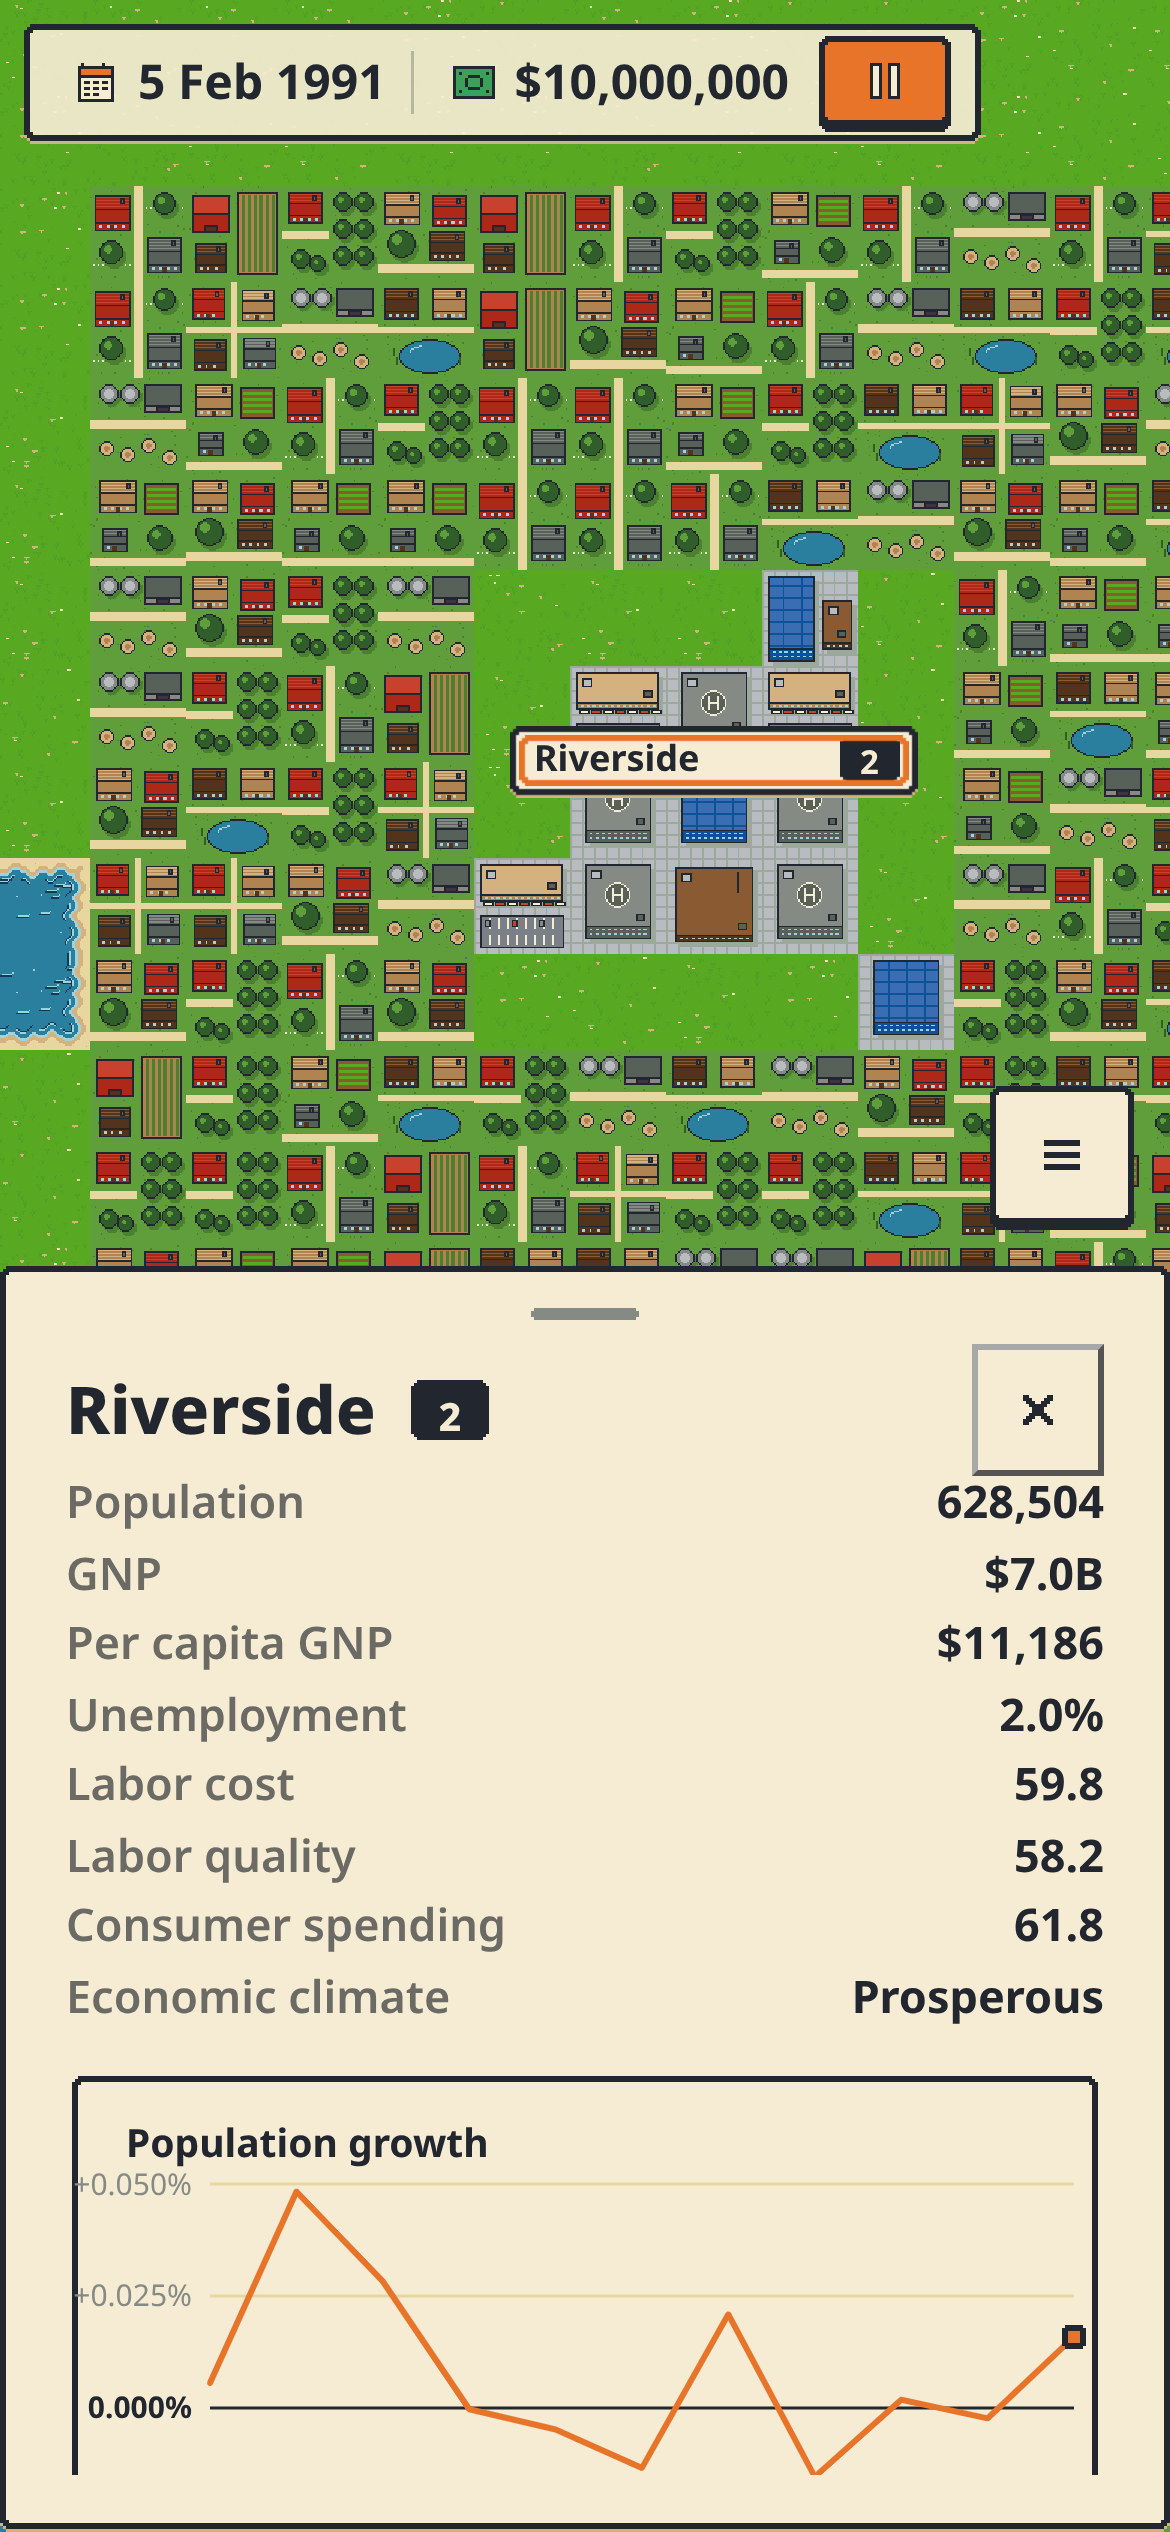
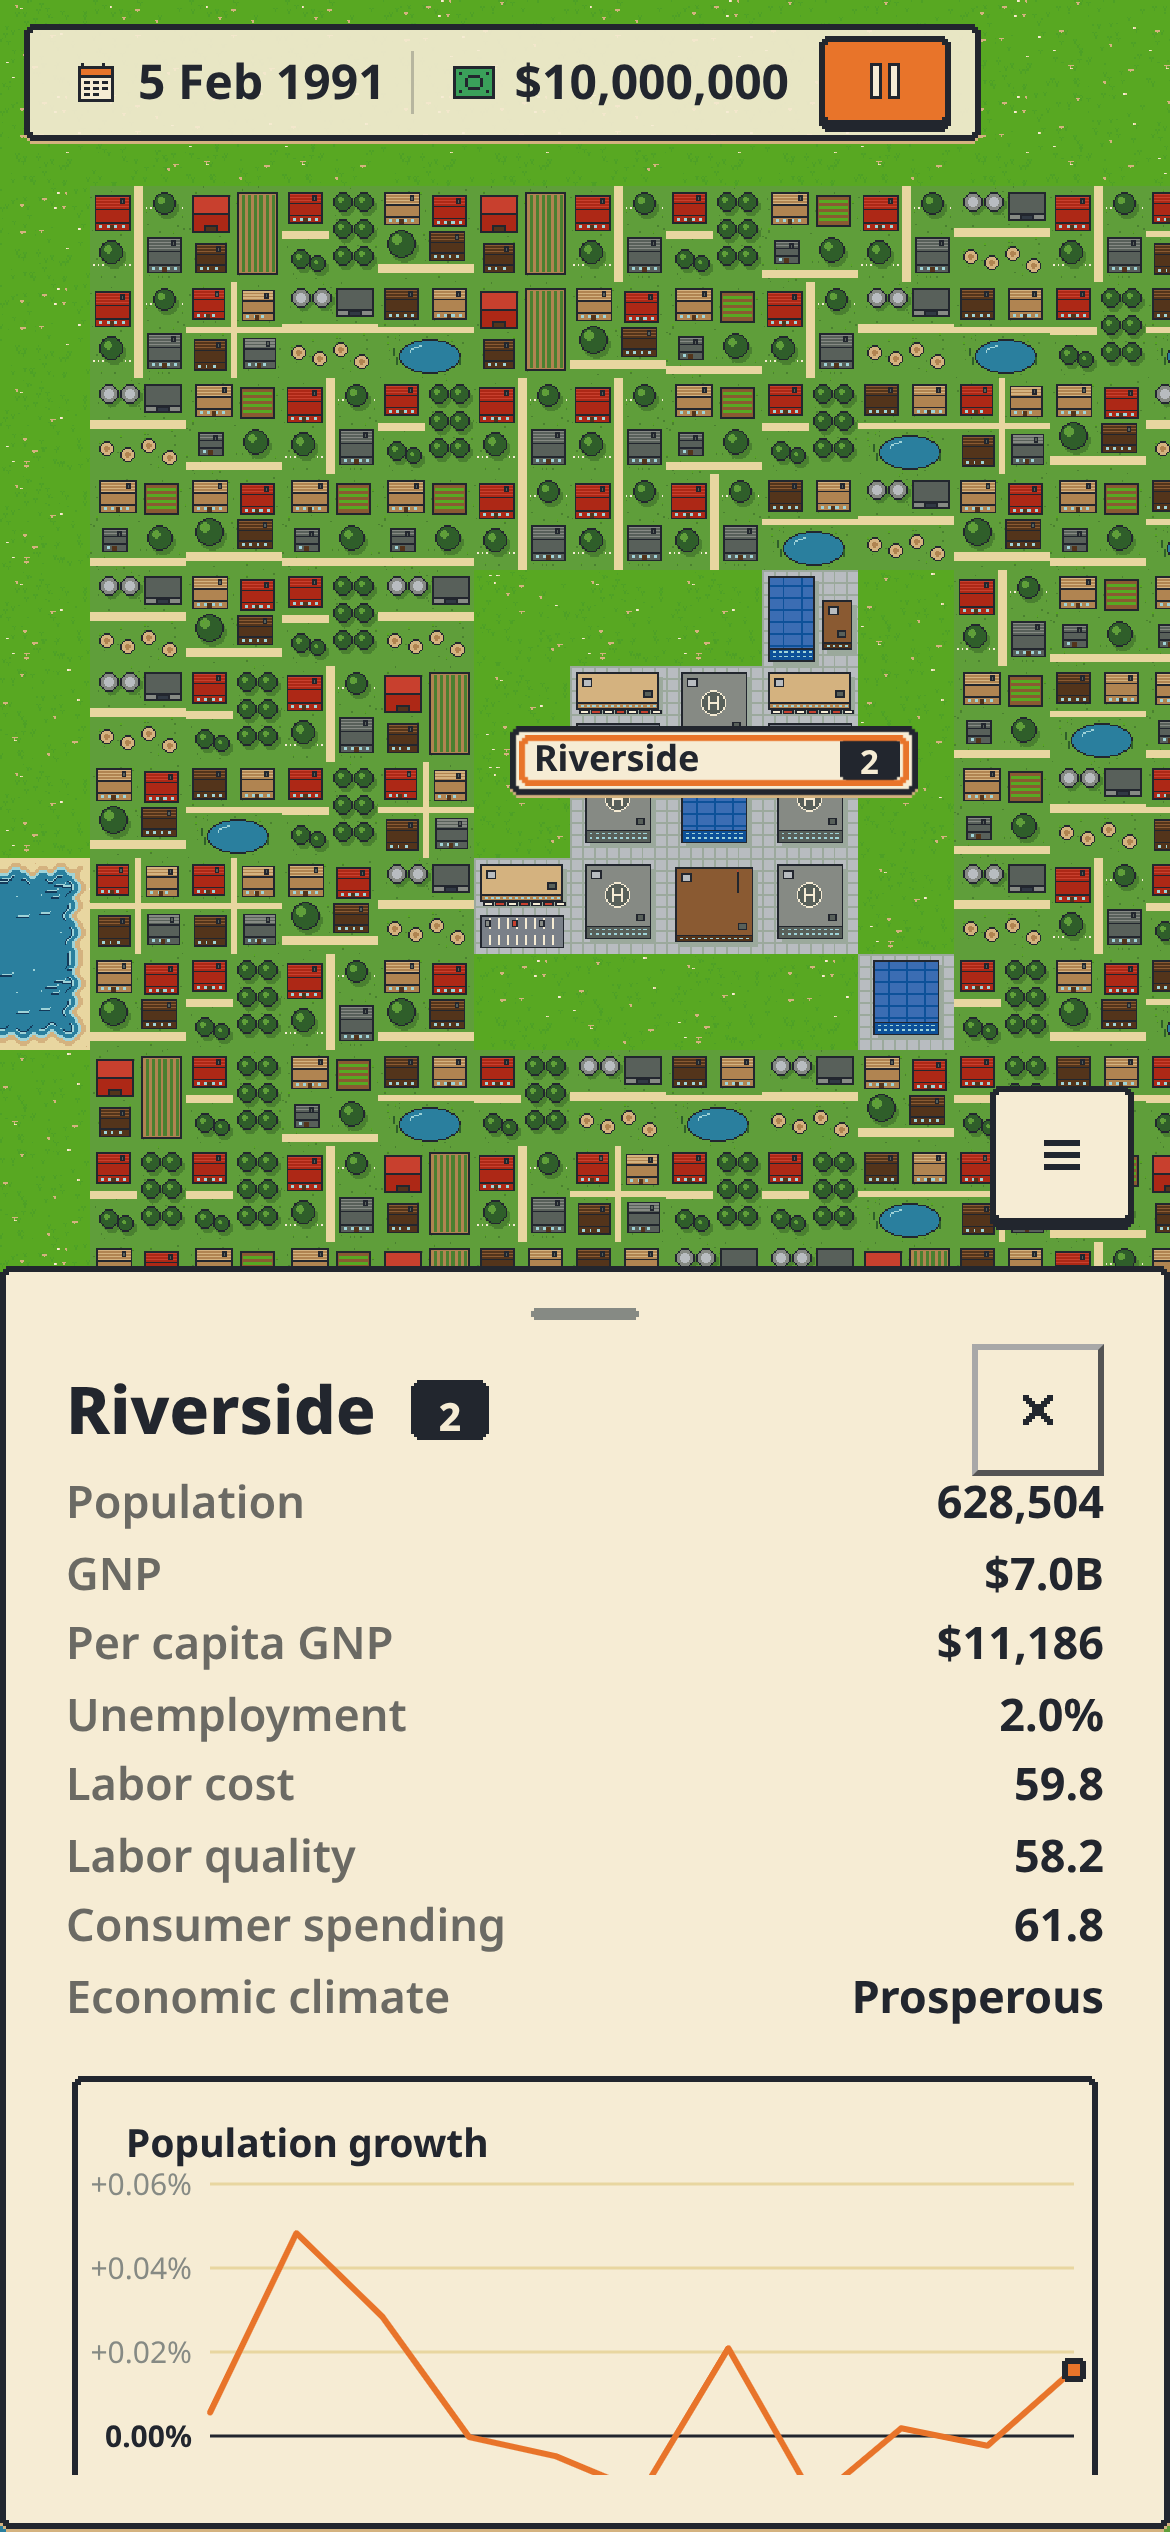
Charts: 1-2-5 grid steps with one extra line when needed (Artist, #352)

Changed region(s): [[0.0923, 0.8424, 0.9231, 0.9984]]

diff --git a/client/src/ui/chart.ts b/client/src/ui/chart.ts
@@ -45,7 +45,8 @@ export const crossesZero = (min: number, max: number) => min < 0 && max > 0;
 /** Tip colour: green for 0 and up, red below 0. */
 export const tipColour = (v: number) => (v >= 0 ? PALETTE.GREEN : PALETTE.RED);
 
-/** Axis range with exactly `lines` evenly spaced round ticks (1, 2, 2.5 or 5 times a power of ten)
+/** Axis range with `lines` (or one more) evenly spaced round ticks (1, 2 or 5 times a power of
+ * ten, per the Artist on #352, so labels step evenly)
  * covering every value. A flat series is widened to include 0. */
 export function axisRange(values: number[], lines = style.grid.lines): { min: number; max: number; ticks: number[] } {
   let lo = values.length ? Math.min(...values) : 0;
@@ -58,14 +59,16 @@ export function axisRange(values: number[], lines = style.grid.lines): { min: nu
   const intervals = Math.max(1, lines - 1);
   const raw = (hi - lo) / intervals;
   const mag = 10 ** Math.floor(Math.log10(raw));
-  for (const m of [1, 2, 2.5, 5, 10, 20]) {
-    const step = m * mag;
-    const start = Math.floor(lo / step + 1e-9) * step;
-    if (start + intervals * step >= hi - 1e-9 * step) {
-      const ticks = Array.from({ length: intervals + 1 }, (_, k) => +(start + k * step).toPrecision(12));
-      return { min: ticks[0], max: ticks[intervals], ticks };
+  // Without 2.5 a range can just miss a step; one extra grid line then beats doubling the step.
+  for (const m of [1, 2, 5, 10, 20])
+    for (const n of [intervals, intervals + 1]) {
+      const step = m * mag;
+      const start = Math.floor(lo / step + 1e-9) * step;
+      if (start + n * step >= hi - 1e-9 * step) {
+        const ticks = Array.from({ length: n + 1 }, (_, k) => +(start + k * step).toPrecision(12));
+        return { min: ticks[0], max: ticks[n], ticks };
+      }
     }
-  }
   throw new Error("unreachable");
 }
 

diff --git a/client/tests/towncard.test.ts b/client/tests/towncard.test.ts
@@ -1,4 +1,5 @@
 // @vitest-environment happy-dom
+import { axisRange } from "../src/ui/chart";
 import { describe, expect, it } from "vitest";
 import { CLIMATE_NAMES, TownJson, growthPct, growthTick, growthSeries, pct, townCard, townIndicators } from "../src/ui/towncard";
 
@@ -49,6 +50,12 @@ describe("town card", () => {
     const ticks = [-0.025, 0, 0.025, 0.05];
     expect(ticks.map((t) => growthTick(t, ticks))).toEqual(["\u22120.025%", "0.000%", "+0.025%", "+0.050%"]);
     expect([-2, -1, 0, 1].map((t, _, a) => growthTick(t, a))).toEqual(["\u22122.0%", "\u22121.0%", "0.0%", "+1.0%"]);
+  });
+
+  it("steps growth axes by 1, 2 or 5 times a power of ten", () => {
+    const pop = TOWN.pop_growth_pct as number[];
+    const { ticks } = axisRange(pop);
+    expect(ticks.map((t) => growthTick(t, ticks))).toEqual(["\u22120.02%", "0.00%", "+0.02%", "+0.04%", "+0.06%"]);
   });
 
   it("labels growth months back from the last complete month and skips nulls", () => {

diff --git a/client/tests/chart.test.ts b/client/tests/chart.test.ts
@@ -27,8 +27,9 @@ describe("axis", () => {
     expect(crossesZero(0, 2)).toBe(false);
     expect(crossesZero(1, 2)).toBe(false);
   });
-  it("picks four round ticks covering the values", () => {
-    expect(axisRange([-420e3, 1.2e6]).ticks).toEqual([-1e6, 0, 1e6, 2e6]);
+  it("picks four (or five) round 1-2-5 ticks covering the values", () => {
+    expect(axisRange([-420e3, 1.2e6]).ticks).toEqual([-5e5, 0, 5e5, 1e6, 1.5e6]);
+    expect(axisRange([-1e6, 1.9e6]).ticks).toEqual([-1e6, 0, 1e6, 2e6]);
     expect(axisRange([18.2, 20.3]).ticks).toEqual([18, 19, 20, 21]);
   });
   it("widens a single point to include zero, and an empty series to 0..1", () => {
